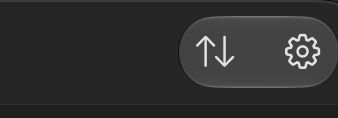
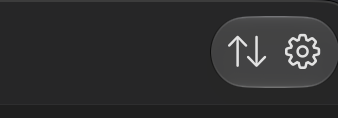
Toolbar sort: even spacing inside the capsule
The two controls keep about 6 pt of their own padding inside the capsule, so the
gap between the arrows and the gear measured 20.5 pt against 6.3 pt of padding at
the capsule's left end and 7.5 pt at the right — the gap the complaint was about,
and the one thing grouping them alone did not fix. The HStack's spacing cancels
that inner padding; at -8 the three distances are 6.3 / 7.9 / 7.5 pt.

assets/sort-menu-after.png is re-captured from this build.

Changed region(s): [[0.503, 0.1271, 0.7988, 0.7627]]

diff --git a/App/Sources/WorkbenchWindowView.swift b/App/Sources/WorkbenchWindowView.swift
@@ -403,7 +403,13 @@ struct WorkbenchWindowView: View {
             // a chosen size was clipped by that slot — the arrows came out as a
             // down arrow and a sliver of the up one.
             ToolbarItem(placement: .primaryAction) {
-                HStack(spacing: 8) {
+                // Negative, and measured: each control keeps about 6 pt of its
+                // own padding inside the capsule, so at a positive spacing the
+                // gap between the arrows and the gear came out 20.5 pt against
+                // 6.3 pt of padding at the left end and 7.5 pt at the right. −8
+                // cancels that inner padding and leaves the two glyphs the same
+                // distance apart as each is from the capsule's edge.
+                HStack(spacing: -8) {
                     // The order only means something for the Apps list; the CLI
                     // and Rollback tabs keep their own fixed presentation.
                     if sidebarTab == .apps {
